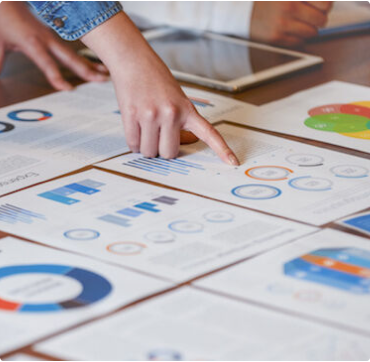
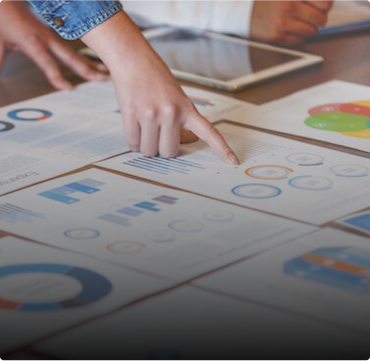
18

diff --git a/style.css b/style.css
@@ -450,11 +450,15 @@ nav {
 
 .ingridents-items {
   display: flex;
-  gap: 15px;
+  gap: 12px;
   margin-bottom: 10px;
 }
 
-.ingridents-title, .ingridents-desc {
+.ingridents-title{
+  width: 125px;
+} 
+
+.ingridents-desc {
   width: 140px;
 }
 
@@ -505,7 +509,7 @@ nav {
 color: #4EA3A7;
 padding: 4px 18px;
 font-size: 13px;
-font-weight: 800;
+font-weight: 600;
 line-height: 30px;
 border: 1px solid #C0DFE0;
 border-radius: 4px;
@@ -570,7 +574,7 @@ display: none;
     }
 
     .intro-list{
-        padding-left: 20px;
+        padding-left: 15px;
         width: 80%;
     }
 
@@ -605,7 +609,7 @@ display: none;
     .feature-item-text{
         color: #ffffff;
         font-size: 24px;
-        font-weight: 900;
+        font-weight: 700;
         line-height: 28px;
         position: absolute;
         bottom: 10px;
@@ -635,7 +639,7 @@ display: none;
 
     .recipe-item p{
         font-size: 18px;
-        font-weight: 900;
+        font-weight: 700;
         line-height: 22px;
         width: 50%;
         color: #037D88;
@@ -736,7 +740,7 @@ display: none;
 }
 
 .quick-links li span{
-    color: #037D88;
+    color: #3B9B9F;
 }
 
 .copy-right{
@@ -858,7 +862,7 @@ display: none;
   .product-name-list {
     display: flex;
     gap: 40px;
-    border-top: 2px solid lightgray;
+    border-top: 1px solid lightgray;
     margin-top: 15px;
     padding-top: 15px;
   }
@@ -1137,7 +1141,7 @@ nav.navbar.navbar-expand-lg {
 
   .product-details-banner img {
     width: 100%;
-    height: 60vh;
+    height: 330px;
     object-fit: cover;
     object-position: bottom center;
   }
@@ -1148,7 +1152,7 @@ nav.navbar.navbar-expand-lg {
 
   .banner-text {
     display: block;
-    background-color: #00000087;
+    background-color: rgb(0 0 0 / 30%);
     position: absolute;
     bottom: 20px;
     width: 100%;
@@ -1174,7 +1178,7 @@ nav.navbar.navbar-expand-lg {
   }
 
 .ingridents-title{
-  width: 150px;
+  width: 135px;
 }
 
 .mobile-screen{
@@ -1235,6 +1239,7 @@ line-height: 30px;
 
 .functionality-left{
     padding-left: 0px;
+    margin-bottom: 30px;
 }
 
 .functionality-left h1{
@@ -1251,7 +1256,7 @@ line-height: 30px;
 
 .functional-list ul li{
 font-size: 14px;
-margin-bottom: 10px;
+margin-bottom: 4px;
 }
 
 .functionality-bg .row{
@@ -1260,7 +1265,7 @@ margin-bottom: 10px;
 
 
 .product-intoduction{
-    padding: 20px 0px;
+    padding: 30px 0px;
 }
 
 .product-intro-content h4{
@@ -1430,6 +1435,16 @@ img.product-close {
     left: 8%;
 }
 
+.quick-links img{
+  display: none;
+}
+
+.footer-contact-info {
+  display: flex;
+  gap: 15px;
+  flex-wrap: wrap;
+}
+
 
 }
 
@@ -1452,7 +1467,7 @@ img.product-close {
 .functionality-right img{
     width: 45%;
     position: absolute;
-    top: -40px;
+    top: -20px;
     right: 0;
     
 }
@@ -1479,7 +1494,7 @@ img.product-close {
 
   
   .banner-img {
-    height: 62vh;
+    height: 393px;
     object-fit: cover;
   }
 

diff --git a/product-details.html b/product-details.html
@@ -450,8 +450,9 @@
                                 <br><br>
                                 Curcuminoids contained in turmeric are a type of polyphenol with strong antioxidant power, and are expected to not only have well-known liver care benefits, but also cancer prevention, anti-inflammatory effects, anti-thrombotic effects, and effects on Alzheimer's disease.
                                 <br><br>
-                                Curcuminoids contained in turmeric are a type of polyphenol with strong antioxidant power, and are expected to not only have well-known liver care benefits, but also cancer prevention, anti-inflammatory effects, anti-thrombotic effects, and effects on Alzheimer's disease.
-                            </p>
+                                Our turmeric extract uses high-quality cultivars whose origin has been certified by the USDA and the Indian government, and is fully traceable regarding cultivation areas, cultivation processes, yields, and seed quality. Processed in a specialized plant extraction facility that is ISO certified. Standardized with the highest concentration of curcuminoids in the industry. Various grades are available, including water-dispersible types.
+
+                                 </p>
                         </div>
                     </div>
                 </div>
@@ -536,19 +537,19 @@
             <div class="row">
                 <div class="col-sm-12 col-lg-4">
                     <div class="feature-item">
-                        <img class="feature-item-img" src="images/product_details/3.png" alt="">
+                        <img class="feature-item-img" src="images/product_details/2.png" alt="">
                         <p class="feature-item-text">Abundant<br> evidence data</p>
                     </div>
                 </div>
                 <div class="col-sm-12 col-lg-4">
                     <div class="feature-item">
-                        <img class="feature-item-img" src="images/product_details/4.png" alt="">
+                        <img class="feature-item-img" src="images/product_details/3.png" alt="">
                         <p class="feature-item-text">Wide range of<br> applications</p>
                     </div>
                 </div>
                 <div class="col-sm-12 col-lg-4">
                     <div class="feature-item">
-                        <img class="feature-item-img" src="images/product_details/2.png" alt="">
+                        <img class="feature-item-img" src="images/product_details/4.png" alt="">
                         <p class="feature-item-text">Through cooperation with group factories, we are able to offer products in various grades.</p>
                     </div>
                 </div>

diff --git a/index.html b/index.html
@@ -887,8 +887,10 @@
                         <ul class="address">
                             <li>Bio Actives Japan Co., Ltd</li>
                             <li>BAJ Building 3F, 4-1-1 Minaminagaki<br>Toshima-ku, Tokyo 171-0052</li>
-                            <li><span>Phone:</span> 03-5981-0601</li>
-                            <li><span>Fax:</span> 03-5981-0602</li>
+                            <div class="footer-contact-info">
+                              <li><span>Phone:</span> 03-5981-0601</li>
+                              <li><span>Fax:</span> 03-5981-0602</li>
+                            </div>
                         </ul>
                     </div>
                     <div class="col-sm-12 col-lg-2">
